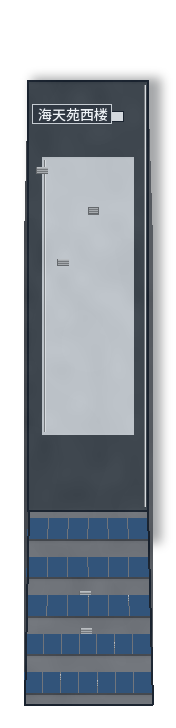
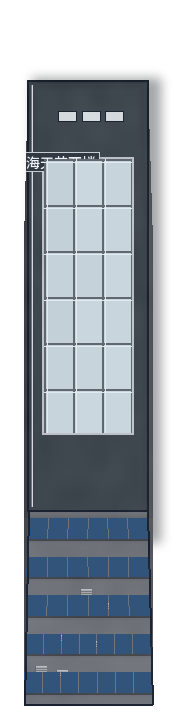
feat(art): 海天苑大楼群屋顶补采光天窗与内院绿化，纯色大板改成有结构的屋面

diff --git a/tools/enhance_roofs.py b/tools/enhance_roofs.py
@@ -1,0 +1,382 @@
+"""屋面构件补细节：把「没画完的纯色大板」补成有结构的真实屋面。
+
+为什么做这个:
+    俯视 2.5D 下屋顶占建筑贴图一半以上、也占屏幕面积最大。海天苑大楼群
+    （回字形综合体）北楼/东西楼屋顶中央各有一块完美矩形的纯色浅灰板
+    （实测 b53 是 454x78、b54/55 是 92x278，矩形覆盖率 1.00），中楼是
+    一整块纯绿。实机里前者像「没铺装的水泥地」、后者像「一块绿板」，
+    是整个片区最假的地方。
+
+做法（分三类，各自参数化，不写死坐标）:
+    1. 采光天窗 —— 识别近 (188,194,200) 的大矩形，补铝合金外框 + 玻璃格架
+       + 格内高光，读作大面积采光顶。
+    2. 屋顶绿化 —— 识别大块绿色屋面，补草簇明暗 + 周边深色种植带 + 灌木投影。
+    3. 女儿墙阴影 —— 沿屋顶轮廓内圈渐进变暗，补出女儿墙的立体感。
+
+红线:
+    * 只改 RGB；alpha 逐像素不变。
+    * 玻璃像素集合（`bake_art.is_window_pane`，夜间窗光按它预烘）新增/丢失必须为 0。
+    * 幂等：每次都从 `backup/before-roof-20261117/` 的原图重算，不会叠加。
+
+用法:
+    python tools/enhance_roofs.py --dry      # 只报告，不写
+    python tools/enhance_roofs.py            # 写源图（之后自行跑 bake_facade.apply）
+"""
+import os
+import sys
+
+import numpy as np
+from PIL import Image, ImageDraw, ImageFilter
+
+HERE = os.path.dirname(os.path.abspath(__file__))
+ROOT = os.path.dirname(HERE)
+sys.path.insert(0, HERE)
+
+from bake_art import is_window_pane  # noqa: E402  权威判定，绝不另写阈值
+
+SRC = os.path.join(ROOT, "assets", "_buildings_src")
+OUT = os.path.join(ROOT, "assets", "buildings")
+BAK = os.path.join(os.path.dirname(ROOT), "backup", "before-roof-20261117")
+RECTS = os.path.join(BAK, "skylight_rects.json")
+
+TARGETS = [53, 54, 55, 56, 57]
+
+PALE_RGB = (188, 194, 200)      # 纯色大板的底色
+PALE_TOL = 14
+PALE_MIN_AREA = 3000
+PALE_MIN_FILL = 0.88            # bbox 内覆盖率下限，防止把散点当大板
+
+SKY_BASE = (200, 212, 220)      # 天窗玻璃底（偏青，反射天空）
+SKY_CELL = 46                   # 格架间距
+SKY_MULLION = (96, 103, 110)    # 铝框/格架
+SKY_FRAME = (84, 90, 96)        # 外框
+SKY_FRAME_HI = (218, 226, 232)  # 受光边
+SKY_GLINT = (224, 234, 240)     # 格内高光
+
+GREEN_MIN_AREA = 5000
+GREEN_EDGE = 9                  # 周边种植带宽度
+GREEN_DEEP = (74, 112, 70)      # 种植带
+GREEN_BUSH = (64, 102, 58)      # 灌木主体
+GREEN_BUSH_HI = (84, 126, 74)   # 灌木左上受光
+GREEN_SHADOW = (44, 80, 42)     # 灌木投影
+
+WALL_K = 0.90                   # 女儿墙正下方最暗
+WALL_RING = 5                   # 明显变暗的圈数
+
+
+def glass_mask(a):
+    r, g, b = a[:, :, 0].astype(int), a[:, :, 1].astype(int), a[:, :, 2].astype(int)
+    solid = a[:, :, 3] == 255
+    m = np.zeros(solid.shape, bool)
+    if not solid.any():
+        return m
+    rs, gs, bs = r[solid], g[solid], b[solid]
+    v = np.array([is_window_pane(int(x), int(y), int(z)) for x, y, z in zip(rs, gs, bs)])
+    m[solid] = v
+    return m
+
+
+def erode(m, it=1):
+    im = Image.fromarray((m * 255).astype(np.uint8), "L")
+    for _ in range(it):
+        im = im.filter(ImageFilter.MinFilter(3))
+    return np.asarray(im) > 127
+
+
+def dilate(m, it=1):
+    im = Image.fromarray((m * 255).astype(np.uint8), "L")
+    for _ in range(it):
+        im = im.filter(ImageFilter.MaxFilter(3))
+    return np.asarray(im) > 127
+
+
+def dist_layers(m, n):
+    """rings[i] = 距边界第 i+1 层"""
+    rings, cur = [], m.copy()
+    for _ in range(n):
+        nxt = erode(cur)
+        rings.append(cur & ~nxt)
+        cur = nxt
+        if not cur.any():
+            break
+    return rings
+
+
+def hashf(x, y, s=0):
+    h = (int(x) * 73856093) ^ (int(y) * 19349663) ^ (int(s) * 83492791)
+    return ((h & 0x7FFFFFFF) % 10000) / 10000.0
+
+
+def roof_region(a, gtop):
+    H, W = a.shape[:2]
+    Y = np.indices((H, W))[0]
+    return (a[:, :, 3] == 255) & (Y < gtop) & (Y > 2)
+
+
+def find_pale_slabs(a, roof):
+    r, g, b = a[:, :, 0].astype(int), a[:, :, 1].astype(int), a[:, :, 2].astype(int)
+    m = (np.abs(r - PALE_RGB[0]) < PALE_TOL) & (np.abs(g - PALE_RGB[1]) < PALE_TOL) \
+        & (np.abs(b - PALE_RGB[2]) < PALE_TOL) & roof
+    if m.sum() < PALE_MIN_AREA:
+        return []
+    # 只保留主体块：腐蚀后剩下的最大连通区域用 bbox 近似（这些板实测都是矩形）
+    core = erode(m, 2)
+    if not core.any():
+        return []
+    ys, xs = np.where(core)
+    x0, x1, y0, y1 = xs.min(), xs.max(), ys.min(), ys.max()
+    box = m[y0:y1 + 1, x0:x1 + 1]
+    if box.sum() / box.size < PALE_MIN_FILL:
+        return []
+    return [(x0, y0, x1, y1)]
+
+
+def draw_skylight(a, rect, mask=None):
+    """在浅灰大板上画采光顶：铝框 + 格架 + 格内高光。
+
+    mask=None 时只认原底色 PALE_RGB（改源图阶段）；传入布尔掩膜时按掩膜画
+    （烘焙后阶段用，此时底色已被换成 SKY_BASE，且缝里可能被塞了空调外机）。
+    """
+    x0, y0, x1, y1 = rect
+    H, W = a.shape[:2]
+    x1 = min(x1, W - 1)
+    y1 = min(y1, H - 1)
+    sub = a[y0:y1 + 1, x0:x1 + 1]
+    if mask is None:
+        r, g, b = sub[:, :, 0].astype(int), sub[:, :, 1].astype(int), sub[:, :, 2].astype(int)
+        mask = (np.abs(r - PALE_RGB[0]) < PALE_TOL) & (np.abs(g - PALE_RGB[1]) < PALE_TOL) \
+            & (np.abs(b - PALE_RGB[2]) < PALE_TOL) & (sub[:, :, 3] == 255)
+    else:
+        mask = mask & (sub[:, :, 3] == 255)
+    if mask.sum() < 500:
+        return 0
+    inner = erode(mask, 2)
+    ring = mask & ~inner           # 外框环
+
+    # 玻璃底
+    sub[mask, 0] = SKY_BASE[0]
+    sub[mask, 1] = SKY_BASE[1]
+    sub[mask, 2] = SKY_BASE[2]
+
+    # 格架：横竖 mullion，间距自适应保证至少 2 格
+    hh, ww = sub.shape[:2]
+    stepx = max(28, min(SKY_CELL, ww // 3))
+    stepy = max(24, min(SKY_CELL, hh // 2))
+    Ys, Xs = np.indices((hh, ww))
+    mx = (Xs % stepx) < 2
+    my = (Ys % stepy) < 2
+    mull = inner & (mx | my)
+    sub[mull, 0] = SKY_MULLION[0]
+    sub[mull, 1] = SKY_MULLION[1]
+    sub[mull, 2] = SKY_MULLION[2]
+
+    # 格内高光：每格左上一小段亮线，制造玻璃反光
+    glint = inner & (((Xs % stepx) == 3) | ((Ys % stepy) == 3))
+    sub[glint, 0] = SKY_GLINT[0]
+    sub[glint, 1] = SKY_GLINT[1]
+    sub[glint, 2] = SKY_GLINT[2]
+
+    # 格内亮度差（玻璃反射不均）
+    cells = inner & ~mull & ~glint
+    for cy in range(0, hh, stepy):
+        for cx in range(0, ww, stepx):
+            blk = cells[cy:cy + stepy, cx:cx + stepx]
+            if not blk.any():
+                continue
+            d = (hashf(cx, cy, 11) - 0.5) * 9
+            part = sub[cy:cy + stepy, cx:cx + stepx, :3]
+            part[blk] += d
+
+    # 铝框
+    sub[ring, 0] = SKY_FRAME[0]
+    sub[ring, 1] = SKY_FRAME[1]
+    sub[ring, 2] = SKY_FRAME[2]
+    # 受光边：框的内侧上/右各 1px 亮
+    hi = ring & (((Ys % max(1, hh - 1)) == 0) | ((Xs % max(1, ww - 1)) == 0)) & mask
+    sub[hi, 0] = SKY_FRAME_HI[0]
+    sub[hi, 1] = SKY_FRAME_HI[1]
+    sub[hi, 2] = SKY_FRAME_HI[2]
+    return int(mask.sum())
+
+
+def draw_green_roof(a, roof):
+    """屋顶绿化：草簇明暗 + 周边种植带。"""
+    r, g, b = a[:, :, 0].astype(int), a[:, :, 1].astype(int), a[:, :, 2].astype(int)
+    m = (g > r + 30) & (g > b + 30) & roof
+    if m.sum() < GREEN_MIN_AREA:
+        return 0
+    H, W = a.shape[:2]
+    Ys, Xs = np.indices((H, W))
+    inner = erode(m, GREEN_EDGE)
+    edge = m & ~inner
+
+    # 种植带
+    a[edge, 0] = GREEN_DEEP[0]
+    a[edge, 1] = GREEN_DEEP[1]
+    a[edge, 2] = GREEN_DEEP[2]
+
+    # 草簇：4x4 小簇伪随机明暗
+    for cy in range(0, H, 4):
+        for cx in range(0, W, 4):
+            blk = inner[cy:cy + 4, cx:cx + 4]
+            if not blk.any():
+                continue
+            d = (hashf(cx // 4, cy // 4, 23) - 0.5) * 10
+            part = a[cy:cy + 4, cx:cx + 4, :3]
+            part[blk] += d
+
+    # 点景树/灌木：试过两版（小球、大冠）都像「绿气球/绿罐子」——在这个尺寸下
+    # 手写程序化树冠撑不住细节，加了反而比纯草更假。所以不画，只留纹理和种植带。
+    return int(m.sum())
+
+
+def wall_shadow(a, roof):
+    rings = dist_layers(roof, WALL_RING + 7)
+    for i, rg in enumerate(rings[:WALL_RING]):
+        k = 1.0 - (1.0 - WALL_K) * (1.0 - i / WALL_RING)
+        a[rg, 0] *= k
+        a[rg, 1] *= k
+        a[rg, 2] *= k
+    for i, rg in enumerate(rings[WALL_RING:WALL_RING + 7]):
+        k = 1.0 - (1.0 - WALL_K) * 0.55 * (1.0 - (i + 1) / 7.0)
+        a[rg, 0] *= k
+        a[rg, 1] *= k
+        a[rg, 2] *= k
+
+
+def pane_top(a):
+    """屋顶底边 = 立面上第一个"窗"的行号。
+
+    先按权威玻璃判定找；海天苑大楼群那种深蓝横条窗太暗（L<120）不满足玻璃条件，
+    但它满足「明显偏蓝」——用 b>r+30 & b>g+15 兜底，避免把整栋楼都当屋顶。
+    """
+    g = glass_mask(a)
+    ys = np.where(g.any(axis=1))[0]
+    if len(ys):
+        return int(ys.min())
+    r, b_, b = a[:, :, 0].astype(int), a[:, :, 1].astype(int), a[:, :, 2].astype(int)
+    deep = (b > r + 30) & (b > b_ + 15) & (a[:, :, 3] == 255)
+    ys = np.where(deep.any(axis=1))[0]
+    return int(ys.min()) if len(ys) else a.shape[0]
+
+
+def enhance(a_in, idx):
+    a = a_in.astype(np.float32)
+    a[:, :, 3] = a_in[:, :, 3]
+    g0 = glass_mask(a_in)
+    gtop = pane_top(a_in)
+    roof = roof_region(a_in, gtop)
+    if roof.sum() < 800:
+        return a_in, None
+
+    solid_before = a_in[:, :, 3] == 255
+    stat = {"roof": int(roof.sum()), "gtop": gtop, "sky": 0, "green": 0, "rects": []}
+
+    for rect in find_pale_slabs(a_in, roof):
+        stat["sky"] += draw_skylight(a, rect)
+        stat["rects"].append([int(v) for v in rect])
+    stat["green"] = draw_green_roof(a, roof)
+    wall_shadow(a, roof)
+
+    out = np.clip(a, 0, 255).astype(np.uint8)
+    out[:, :, 3] = a_in[:, :, 3]
+    g1 = glass_mask(out)
+    stat["glass_add"] = int((g1 & ~g0).sum())
+    stat["glass_lost"] = int((g0 & ~g1).sum())
+    stat["alpha_same"] = bool(np.array_equal(out[:, :, 3], a_in[:, :, 3]))
+    stat["solid_same"] = bool(np.array_equal(out[:, :, 3] == 255, solid_before))
+    return out, stat
+
+
+def post_skylight():
+    """烘焙后阶段：盖掉 bake_facade 撒在玻璃天窗上的空调外机。
+
+    bake_facade 会给「平坦区」补外机，而采光顶的玻璃底正是一片纯色平坦区，
+    于是外机会被摆在玻璃上（真实建筑不会这么干）。这里按 --src 阶段记下的
+    rect 重画一遍天窗，把外机覆盖掉。必须在 apply 之后跑。
+    """
+    import json
+    if not os.path.exists(RECTS):
+        print("没有 skylight_rects.json，先跑 --src")
+        return
+    rects = json.load(open(RECTS, encoding="utf-8"))
+    for idx_s, rs in rects.items():
+        if not rs:
+            continue
+        idx = int(idx_s)
+        p = os.path.join(OUT, f"b{idx}.png")
+        if not os.path.exists(p):
+            print(f"b{idx} 缺成品，跳过")
+            continue
+        im = Image.open(p).convert("RGBA")
+        a0 = np.asarray(im)
+        a = a0.astype(np.float32)
+        a[:, :, 3] = a0[:, :, 3]
+        g0 = glass_mask(a0)
+        painted = 0
+        for rect in rs:
+            x0, y0, x1, y1 = rect
+            x1, y1 = min(x1, a.shape[1] - 1), min(y1, a.shape[0] - 1)
+            sub = a[y0:y1 + 1, x0:x1 + 1]
+            al = sub[:, :, 3] == 255
+            r, g, b = sub[:, :, 0].astype(int), sub[:, :, 1].astype(int), sub[:, :, 2].astype(int)
+            near = (np.abs(r - SKY_BASE[0]) < 46) & (np.abs(g - SKY_BASE[1]) < 46) \
+                & (np.abs(b - SKY_BASE[2]) < 46)
+            if al.any() and near[al].mean() < 0.45:
+                print(f"b{idx} rect {rect} 不像采光顶，跳过")
+                continue
+            painted += draw_skylight(a, rect, mask=al)
+        out = np.clip(a, 0, 255).astype(np.uint8)
+        out[:, :, 3] = a0[:, :, 3]
+        g1 = glass_mask(out)
+        add, lost = int((g1 & ~g0).sum()), int((g0 & ~g1).sum())
+        ok = add == 0 and lost == 0 and np.array_equal(out[:, :, 3], a0[:, :, 3])
+        print(f"b{idx:2d} post 重画={painted:5d} 玻璃+{add}/-{lost} "
+              f"{'OK' if ok else '!! 违反红线'}")
+        if ok:
+            Image.fromarray(out, "RGBA").save(p, optimize=True)
+
+
+def main():
+    if "--post" in sys.argv:
+        post_skylight()
+        return
+    dry = "--dry" in sys.argv
+    os.makedirs(BAK, exist_ok=True)
+    bad = 0
+    rects = {}
+    for idx in TARGETS:
+        src_p = os.path.join(SRC, f"b{idx}.png")
+        bak_p = os.path.join(BAK, f"b{idx}.png")
+        if not os.path.exists(src_p):
+            print(f"b{idx} 缺源图，跳过")
+            continue
+        if not os.path.exists(bak_p):
+            Image.open(src_p).save(bak_p)
+        base = np.asarray(Image.open(bak_p).convert("RGBA"))
+        out, st = enhance(base, idx)
+        if st is None:
+            print(f"b{idx} 无有效屋顶，跳过")
+            continue
+        rects[str(idx)] = st["rects"]
+        ok = st["glass_add"] == 0 and st["glass_lost"] == 0 and st["alpha_same"] and st["solid_same"]
+        bad += 0 if ok else 1
+        print(f"b{idx:2d} roof={st['roof']:6d} gtop={st['gtop']:3d} "
+              f"天窗={st['sky']:5d} 绿化={st['green']:5d} "
+              f"玻璃+{st['glass_add']}/-{st['glass_lost']} alpha{'✓' if st['alpha_same'] else '✗'} "
+              f"{'OK' if ok else '!! 违反红线'}")
+        if not dry and ok:
+            Image.fromarray(out, "RGBA").save(src_p, optimize=True)
+    if dry:
+        print("\n[dry] 未写文件")
+        return
+    import json
+    json.dump(rects, open(RECTS, "w", encoding="utf-8"), ensure_ascii=False, indent=1)
+    print(f"\n天窗 rect 已记入 {RECTS}；烘焙后记得跑 --post")
+    if bad:
+        print(f"⚠ {bad} 栋违反红线，未写")
+        sys.exit(1)
+
+
+if __name__ == "__main__":
+    main()
